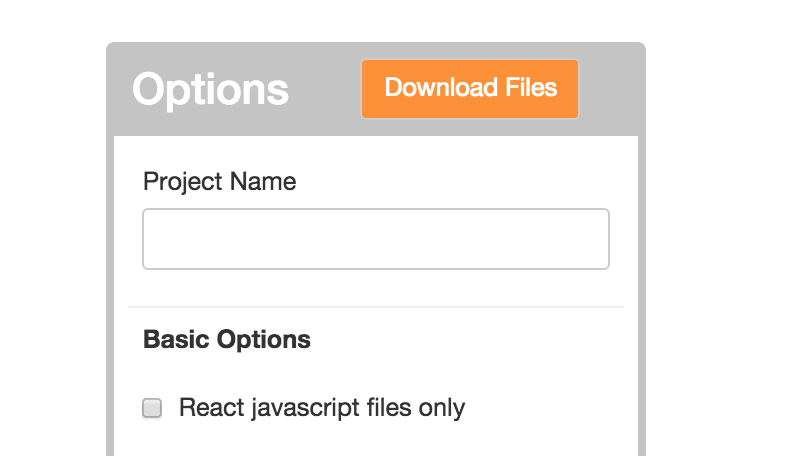
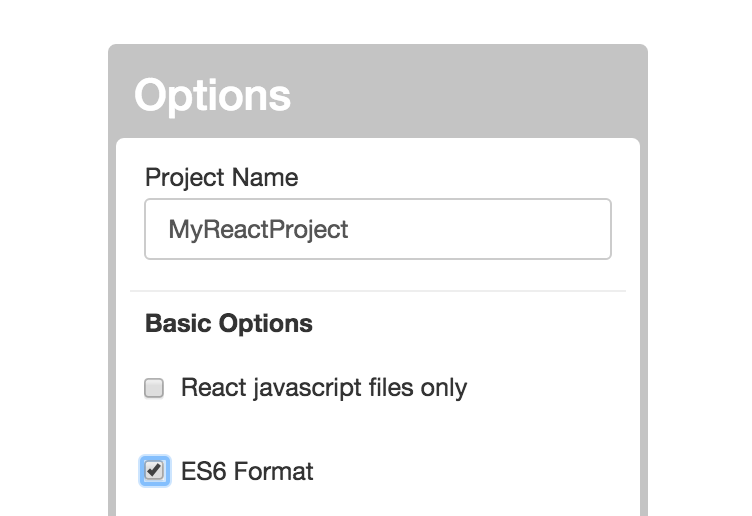
moved input box, changed instructions, changed dup alert, misc bugs

Changed region(s): [[0.1223, 0.0614, 0.887, 1.0], [0.1835, 0.5833, 0.7646, 0.6447]]

diff --git a/css/style.css b/css/style.css
@@ -1,22 +1,5 @@
 
 /*React Blue: #61dafb;*/
-/*React Blue: 3rd shade - #4daec8*/
-/*React Blue: 5th shade - #3a8296*/
-/*React Blue: 7th tint - #bff0fd*/
-/*React Blue: 8th tint - #cff3fd*/
-
-/*http://www.december.com/html/spec/color0.html
-grey 31: #4F4F4F;
-grey 64: #A3A3A3
-grey 77: #C4C4C4;
-grey 88: #E0E0E0*/
-
-/*http://www.colourlovers.com/palette/482774/dream_magnet*/
-/*grey: #343838*/
-/*dark turquoise: #005F6B
-medium turquoise: #008C9E
-turquoise: #00B4CC
-bright turquoise: #00DFFC*/
 
 body{
   width: 1280px;
@@ -58,8 +41,13 @@ body{
   font-size: 3em;
   font-weight: bolder;
   float: left;
+  display: inline-block;
   text-align: center;
   width: 100%;
+}
+#nav-section sup {
+  font-size: 30%;
+  top: -1.9em;
 }
 
 /*Home Section*/
@@ -76,22 +64,24 @@ body{
 #home-section > h1 {
   font-size: 2em;
   margin-top: 70px;
-  margin-bottom: 20px;
   padding-top: 80px;
 }
 
 #home-section > p {
   font-size: 1.5em;
-  line-height: 1em;
 }
+
+
 #getStarted-btn {
-  background-color: #61dafb;
-  border-color: #61dafb;
+  background-color: #FC913A;
+  border-color: #FC913A;
   padding: 10px 20px;
   border-radius: 50px;
   margin: 30px;
 }
-
+.btn:focus, .btn:active:focus, .btn.active:focus {
+    outline: 0 none;
+}
 #instruction-section {
   width: 1280px;
   margin: auto;
@@ -104,6 +94,7 @@ body{
   width: 330px;
   height: 330px;
   display: inline-block;
+  border-radius: 20px;
   vertical-align: middle;
   margin: 0 75px 0 35px;
   background-color: white;
@@ -132,7 +123,7 @@ body{
 #application-section {
   /*display: flex;*/
   height: 700px;
-  padding-top: 25px;
+  padding-top: 50px;
 }
 #overReact-sectionNotContainer{
   position: relative;
@@ -140,6 +131,33 @@ body{
   float: left;
   padding: 0;
   margin: 0;
+}
+#gui-header {
+  border-top-right-radius: 5px;
+  border-top-left-radius: 5px;
+  background-color: #61dafb;
+  width: 850px;
+  height: 50px;
+  margin-left: 35px;
+  margin-top: 20px;
+}
+#gui-header h3 {
+  display: inline-block;
+  color: white;
+  margin-top: 10px;
+}
+#dup-warning {
+  display: none;
+  margin-left: 100px;
+  color: red;
+  font-weight: bold;
+}
+#gui-header form{
+  display: inline-block;
+  float: right;
+  width: 300px;
+  margin-top: 11px;
+  margin-right: 11px;
 }
 
 #Apptext {
@@ -149,18 +167,15 @@ body{
   color: #A3A3A3;
 }
 
-#overReact-container,
-#options-section {
-  /*flex: none;*/
-  border-radius: 5px;
-}
-
 #overReact-container {
-  margin: 0 35px 50px 35px;
+  margin: -3px 35px 50px 35px;
   width: 850px;
-  height: 550px;
+  height: 500px;
   position: relative;
   border: 5px solid #61dafb;
+  border-top-width: 0px;
+  border-bottom-right-radius: 5px;
+  border-bottom-left-radius: 5px;
   float: left;
   padding-left: 7px;
   color: #A3A3A3;
@@ -168,6 +183,13 @@ body{
 
 #overReact-container form {
   float: right;
+}
+.ui-state-hover {
+  background-color: transparent;
+  background-image: none;
+}
+.drop-background-on {
+  background-color: #e5e5e5   !important;
 }
 
 .deleteBtn {
@@ -189,14 +211,17 @@ body{
   padding-left: 5px;
   position: absolute;
   background-color: white;
+  cursor: move;
 }
 .box > span {
   font-weight: bold;
   color: #4daec8;
+  cursor: auto;
 }
 .parentName {
   display: inline-block;
   padding-left: 10px;
+  color: red;
 }
 
 
@@ -206,6 +231,7 @@ body{
   margin: 50px 30px 50px 10px;
   background-color: #C4C4C4;
   border: 5px solid #C4C4C4;
+  border-radius: 5px;
   float: right;
   /*width: 300px;
   height: 500px;
@@ -224,8 +250,6 @@ body{
 #submitButton {
   margin-top: 4px;
   margin-left: 65px;
-/*  margin-bottom: 10px;
-  margin-left: 30px;*/
   background-color: #FC913A;
   color: white;
 }

diff --git a/js/widget.js b/js/widget.js
@@ -9,9 +9,9 @@ var generateNames = require('./widgetHelpers/generateNamesArr');
 module.exports = function(){
   //make overReact-container droppable
   $('#overReact-container').droppable({
-    // greedy: true,
+    //greedy: true,
     accept: '.box',
-    hoverClass: 'ui-state-hover',
+    hoverClass: 'ui-state-hover drop-background-on',
     activeClass: 'active',
     drop: function( e, ui ) {
       //escape out if dropping into same div
@@ -40,8 +40,8 @@ module.exports = function(){
   //   postFunction(id, hash);
   // });
 
-  //create input field on the main overReact-container
-  createInput('overReact-container', createComponent);
+  //create input field on the main gui header
+  createInput('gui-header', createComponent);
 
   //add save and load stuffs
   $('#saveButton').on('click',function(e){
@@ -67,7 +67,8 @@ module.exports = function(){
 
     if(generateNames().names.indexOf(componentName) !== -1 || componentName === "App") {
       node.find('input').val('');
-      alert('React does not allow duplicate component names');
+      $('#dup-warning').css('display', 'inline-block');
+      //alert('React does not allow duplicate component names');
     } else {
         //clear out the input field
         if (!fromLoadButton) node.find('input').val('');

diff --git a/src/Whatnext.js b/src/Whatnext.js
@@ -13,8 +13,11 @@ var WhatNext = React.createClass({
         <h2>What Next?</h2>
         <Well bsSize='small'><p>1) Move the unzipped files to your project directory</p></Well>
         <Well bsSize='small'><p>2) Navigate to your project folder in the command line</p></Well>
-        <Well bsSize='small'><p>3) Run <span className='terminal-text'>npm install</span></p></Well>
-        <Well bsSize='small'><p>4) Run <span className='terminal-text'>npm start</span></p></Well>
+        <Well bsSize='small'><p>3) Run   <span className='terminal-text'>npm run start-dev</span></p></Well>
+        <Well bsSize='small'>
+          <p>4) Run <span className='terminal-text'>npm start</span></p>
+          <pre>For Windows users only:   <span className='terminal-text'>npm run task; npm start</span></pre>
+        </Well>
         <Well bsSize='small'><p>5) Open your browser and go to http://localhost:3000</p></Well>
       </div>
     )

diff --git a/js/widgetHelpers/createBox.js b/js/widgetHelpers/createBox.js
@@ -15,15 +15,19 @@ module.exports = function (boxName, node, fromLoadButton) {
     .append(`<span>${boxName}</span><p class='parentName'> nested in: ${contextName}</p>`)
     .appendTo(context)
     .draggable({
-      containment: '#overReact-container'
+      containment: '#overReact-container',
+      cursor: "move",
+      start: function(e, ui){
+        $(this).children('p:first-of-type').css('color', '#A3A3A3');
+      }
     })
     .resizable({
       containment: 'parent',
     })
     .droppable({
-      // greedy: true,
+      //greedy: true,
       accept: '.box',
-      hoverClass: 'ui-state-hover',
+      hoverClass: 'ui-state-hover drop-background-on',
       tolerance: 'fit',
       drop: function( e, ui ) {
         var droppedInto = $(this);

diff --git a/src/DownloadModal.js b/src/DownloadModal.js
@@ -26,6 +26,7 @@ var DownloadModal = React.createClass({
         <Modal.Body>
           <h4>Method 1: The Cool Way</h4>
           <ol>
+            <p><i>Note: Method #1 currently works for Macs only. Windows users, see Method #2</i></p>
             <li>Install our npm package <a target="_blank" href='https://www.npmjs.com/package/over-react'>here</a> or just type in 'sudo npm install over-react -g' in your terminal.</li>
             <li>Once the package is installed, click the clipboard icon to copy the following commands to your clipboard</li>
             <li>Open your terminal, navigate to the folder you would like to install the project into, paste from your clipboard, and press enter</li>

diff --git a/src/Gui.js b/src/Gui.js
@@ -10,7 +10,10 @@ var Gui = React.createClass({
   render: function() {
     return (
       <section id='overReact-sectionNotContainer'>
-      <p id='Apptext'>App</p>
+      <div id='gui-header'>
+        <h3 id='Apptext'>App</h3>
+        <p id='dup-warning'>React does not allow duplicate component names</p> 
+      </div>
       <div id='overReact-container'></div>
       </section>
     )

diff --git a/src/App.js b/src/App.js
@@ -39,7 +39,7 @@ var App = React.createClass({
       <div>
           <Navbar fixedTop={true} id='nav-section'>
             <Navbar.Brand className='text-center'>
-              <a href="#" id='nav-title'>OverReact</a>
+              <a href="#" id='nav-title'><p>OverReact<sup> Beta Version</sup></p></a>
             </Navbar.Brand>
           </Navbar>
           <Home />

diff --git a/src/Instructions.js b/src/Instructions.js
@@ -30,7 +30,6 @@ var Instructions = React.createClass({
         <div className='instructions'>
           <div>
             <img src="/images/instruction3.png" alt="242x200"/>
-            <hr></hr>
             <h3 id="selectOptions">Select Options</h3>
             <p>Click "Download" to get the starter files</p>
           </div>

diff --git a/js/widgetHelpers/createInput.js b/js/widgetHelpers/createInput.js
@@ -17,6 +17,7 @@ module.exports = function(context, func) {
   inputField.on('submit', function(e){
     e.preventDefault();
     //convert input to Pascal case
+    $('#dup-warning').css('display', 'none')
     var output = toPascal($(e.target).find('input').val());
     $(e.target).find('input').val(output);
     func($(this));

diff --git a/js/widgetHelpers/replaceNameWithInputField.js b/js/widgetHelpers/replaceNameWithInputField.js
@@ -17,7 +17,7 @@ function renameComponent(node) {
 
 //creates an input for the box being renamed and sets focus to that input
 function replaceNameWithInputField(node){
-    createInput(node, renameComponent);
+  createInput(node, renameComponent);
   $('#' + node).find('form').css({
     top: 0,
     left: 0,
